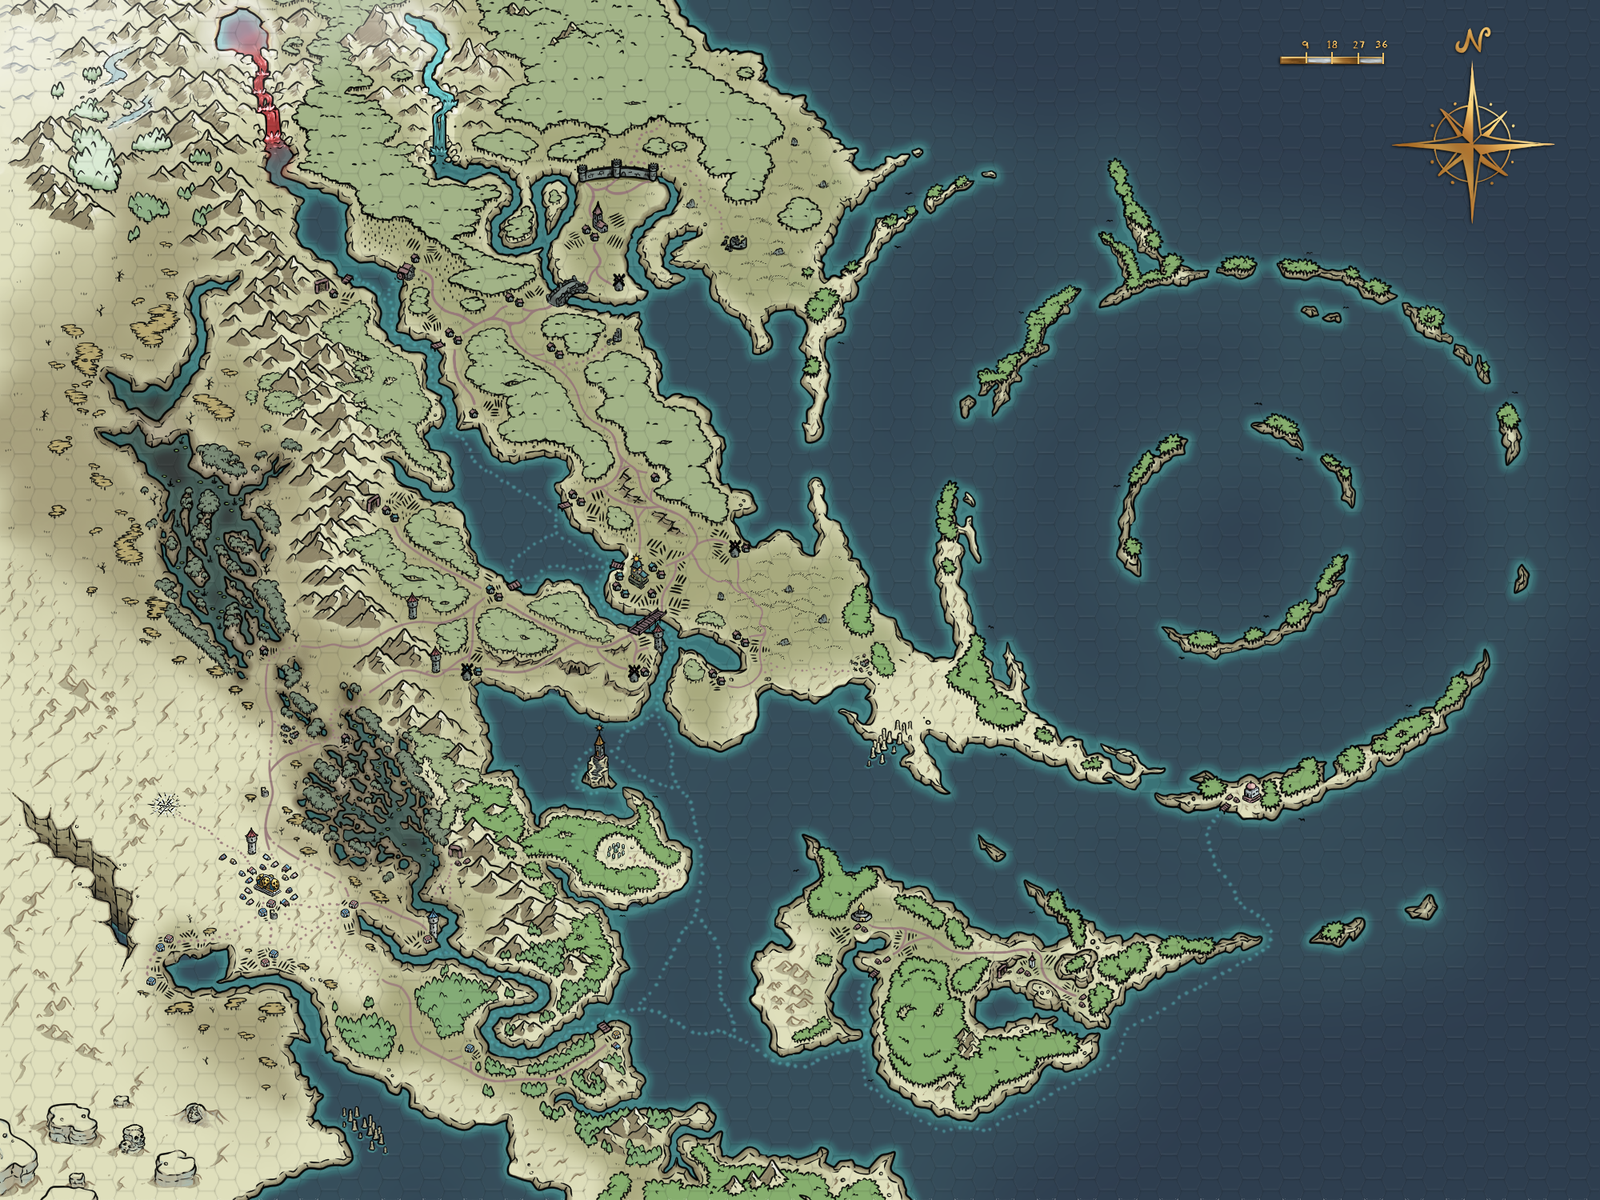
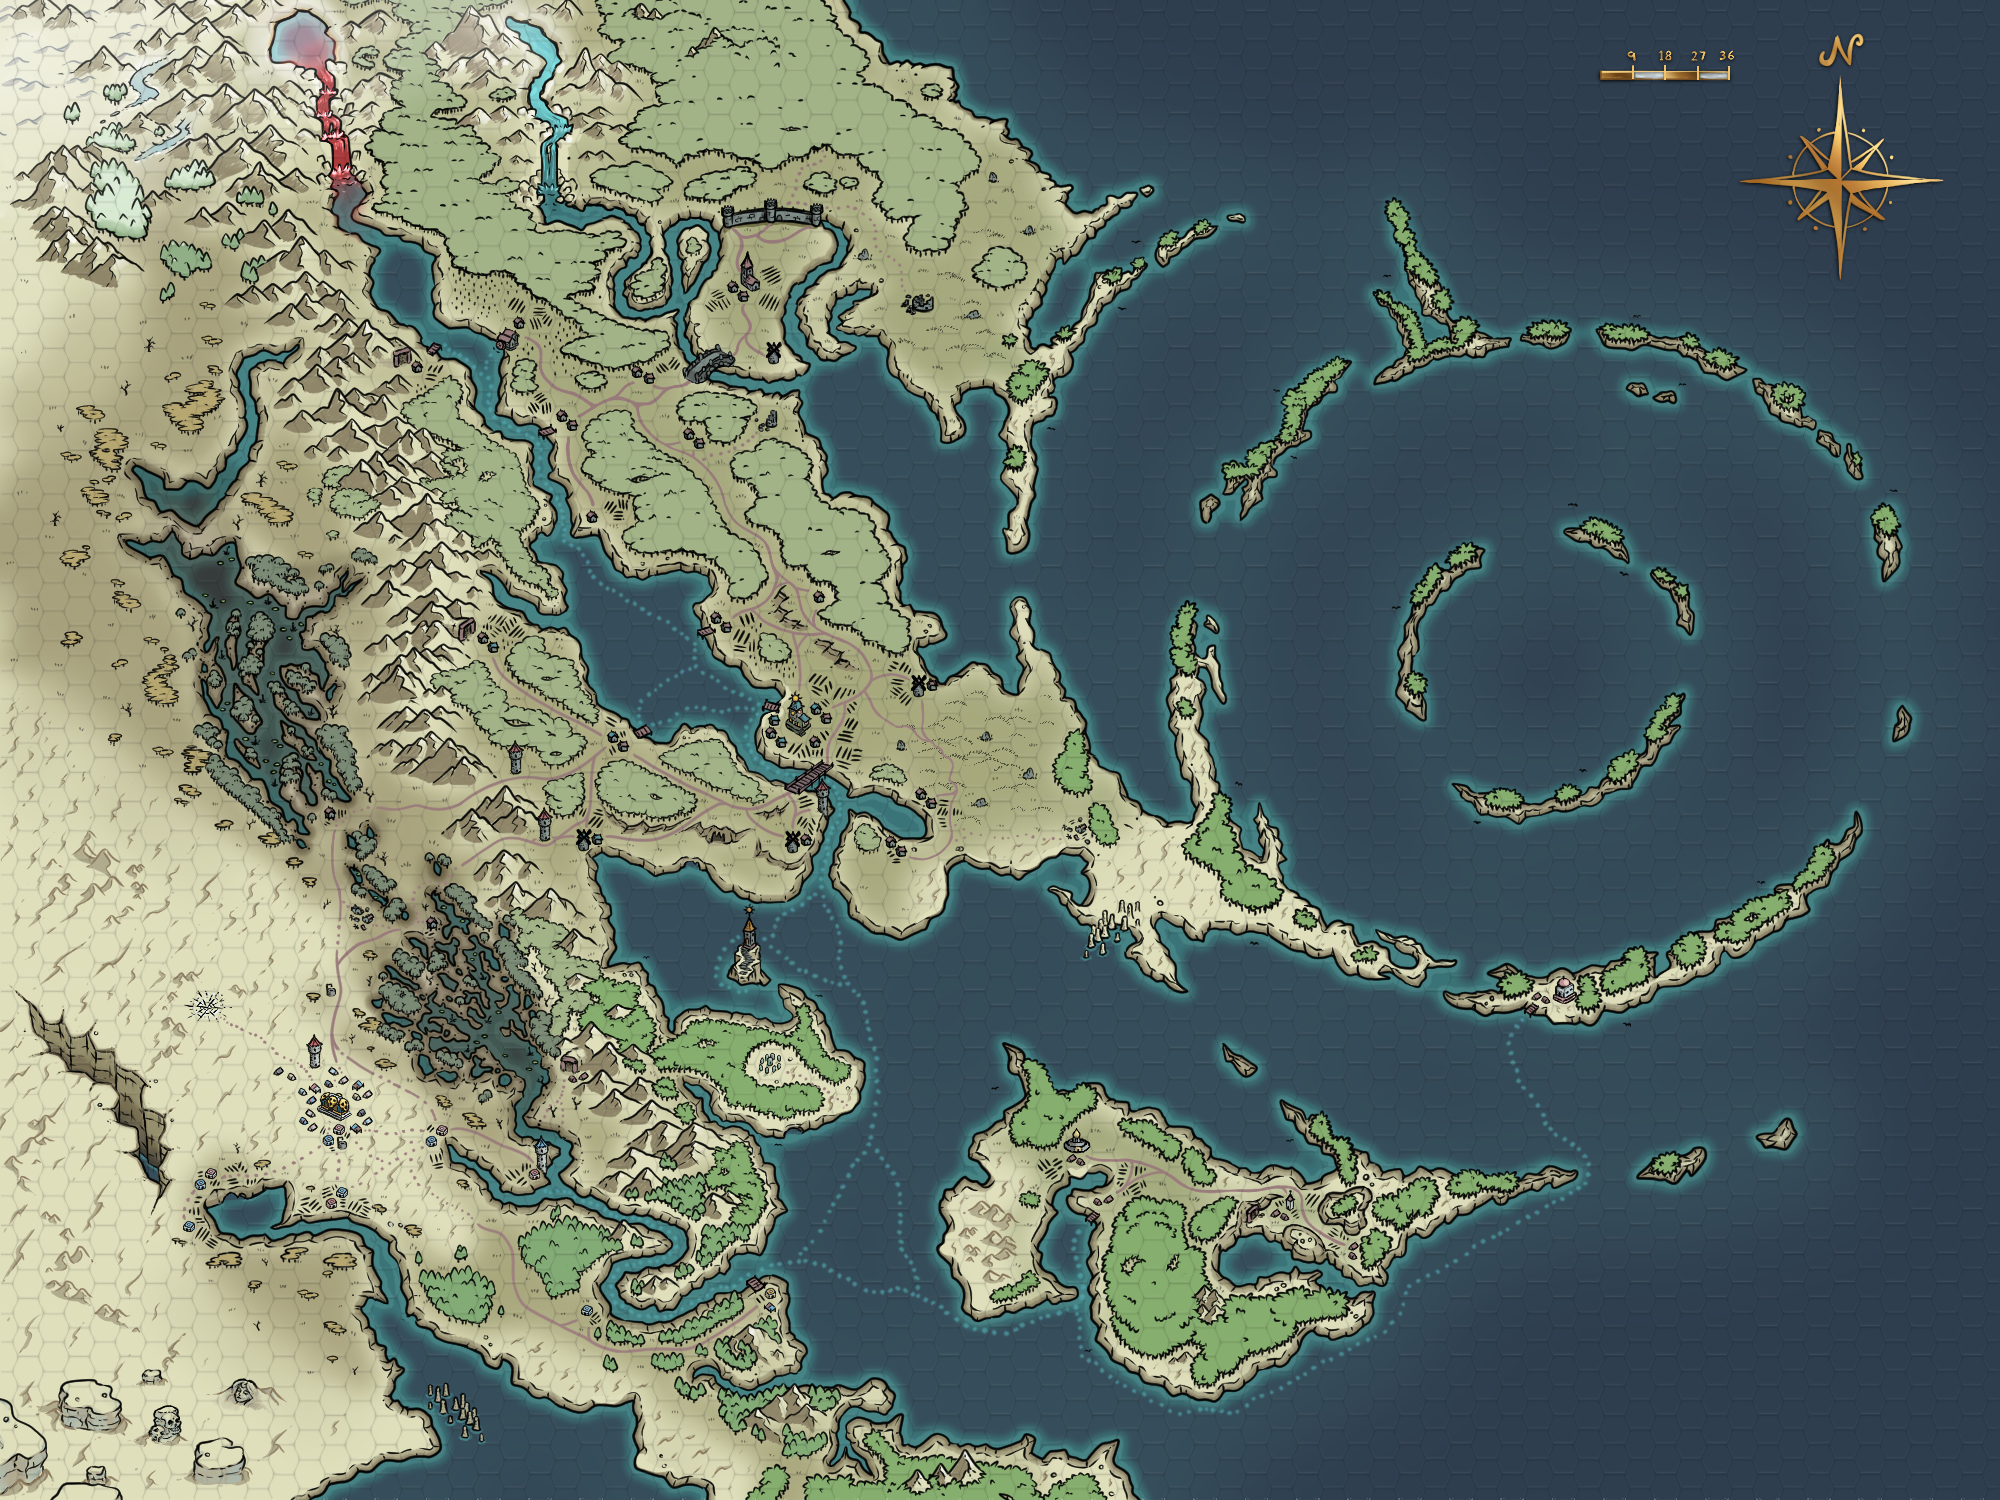
Restore full-res map and render at 1600x1200 in canvas
Keep 2000x1500 source image for quality but draw at 1600x1200 so the
hex grid calibration stays correct. mapWidth/mapHeight constants
replace all image.naturalWidth/Height references.

diff --git a/script.js b/script.js
@@ -362,6 +362,9 @@ const DRAW_HATCH  = {
 
 let activeDrawColor = DRAW_COLORS[0];
 
+const mapWidth = 1600;
+const mapHeight = 1200;
+
 const hexSize = 13.525;
 const hexWidth = 27.275;
 const hexHeight = Math.sqrt(3) * hexSize;
@@ -405,15 +408,15 @@ const hexData = new Map();
 
 image.onload = () => {
     // Calculate minimum zoom to fit image to canvas
-    const zoomX = canvas.width / image.naturalWidth;
-    const zoomY = canvas.height / image.naturalHeight;
+    const zoomX = canvas.width / mapWidth;
+    const zoomY = canvas.height / mapHeight;
     minZoom = Math.max(zoomX, zoomY);
     maxZoom = minZoom * maxZoomScale;
 
     // Set initial zoom and reset pan
     zoom = minZoom;
-    panX = 0;//(canvas.width - image.naturalWidth * zoom) / 2;
-    panY = 0;//(canvas.height - image.naturalHeight * zoom) / 2;
+    panX = 0;//(canvas.width - mapWidth * zoom) / 2;
+    panY = 0;//(canvas.height - mapHeight * zoom) / 2;
 
     drawGridLatestActive();
 };
@@ -565,8 +568,8 @@ function fitContainer() {
         if (w && cH && (w !== canvas.width || cH !== canvas.height)) {
             canvas.width  = w;
             canvas.height = cH;
-            const zoomX = w  / image.naturalWidth;
-            const zoomY = cH / image.naturalHeight;
+            const zoomX = w  / mapWidth;
+            const zoomY = cH / mapHeight;
             minZoom = Math.max(zoomX, zoomY);
             maxZoom = minZoom * maxZoomScale;
             zoom = clamp(_kbSavedZoom, minZoom, maxZoom);
@@ -589,8 +592,8 @@ function fitContainer() {
             if (growing) {
                 // Canvas got larger (desktop resize / keyboard close): recalc zoom bounds
                 // and re-clamp pan so the image always covers the full canvas.
-                const zoomX = w / image.naturalWidth;
-                const zoomY = cH / image.naturalHeight;
+                const zoomX = w / mapWidth;
+                const zoomY = cH / mapHeight;
                 minZoom = Math.max(zoomX, zoomY);
                 maxZoom = minZoom * maxZoomScale;
                 zoom = clamp(zoom, minZoom, maxZoom);
@@ -615,8 +618,8 @@ function resizeCanvas() {
     canvas.width  = w;
     canvas.height = h;
 
-    const zoomX = w / image.naturalWidth;
-    const zoomY = h / image.naturalHeight;
+    const zoomX = w / mapWidth;
+    const zoomY = h / mapHeight;
     minZoom = Math.max(zoomX, zoomY);
     maxZoom = minZoom * maxZoomScale;
 
@@ -646,14 +649,14 @@ resizeCanvas();
 
 // Draw the entire hex grid, optionally highlighting a hovered hex
 function drawGrid(hoveredHex = null) {
-    if (!image.naturalWidth) return;
+    if (!mapWidth) return;
     canvasContext.setTransform(1, 0, 0, 1, 0, 0);
     canvasContext.clearRect(0, 0, canvas.width, canvas.height);
     canvasContext.setTransform(zoom, 0, 0, zoom, panX, panY);
-    canvasContext.drawImage(image, 0, 0, image.naturalWidth, image.naturalHeight);
+    canvasContext.drawImage(image, 0, 0, mapWidth, mapHeight);
 
-    const cols = Math.ceil(image.width / hexHorizSpacing);
-    const rows = Math.ceil(image.height / hexHeight);
+    const cols = Math.ceil(mapWidth / hexHorizSpacing);
+    const rows = Math.ceil(mapHeight / hexHeight);
 
     for (let col = 0; col < cols; col++) {
         for (let row = 0; row < rows; row++) {
@@ -730,8 +733,8 @@ function drawGrid(hoveredHex = null) {
     // Irregular hand-drawn edge — black fill whose top follows overlapping sine waves.
     // Clamped to [0, imgW] so the sides of the map stay clean.
     {
-        const imgH = image.naturalHeight;
-        const imgW = image.naturalWidth;
+        const imgH = mapHeight;
+        const imgW = mapWidth;
 
         canvasContext.setTransform(zoom, 0, 0, zoom, panX, panY);
         canvasContext.fillStyle = 'black';
@@ -833,7 +836,7 @@ function drawGrid(hoveredHex = null) {
 // Calculate which hex coordinates a given (x,y) on the canvas corresponds to
 function getHexAtPosition(screenX, screenY) {
     // Reject clicks in the black padding area below the map image
-    if (screenY > panY + image.naturalHeight * zoom) return { col: -1, row: -1 };
+    if (screenY > panY + mapHeight * zoom) return { col: -1, row: -1 };
 
     // Convert screen coords to world coords (account for pan/zoom)
     const x = (screenX - panX) / zoom;
@@ -1137,8 +1140,8 @@ function clamp(value, min, max) {
 
 function setPan(x, y) {
     // Clamp pan to image boundaries
-    const imageWidth = image.naturalWidth * zoom;
-    const imageHeight = image.naturalHeight * zoom;
+    const imageWidth = mapWidth * zoom;
+    const imageHeight = mapHeight * zoom;
 
     const maxPanX = 0;
     const maxPanY = 0;